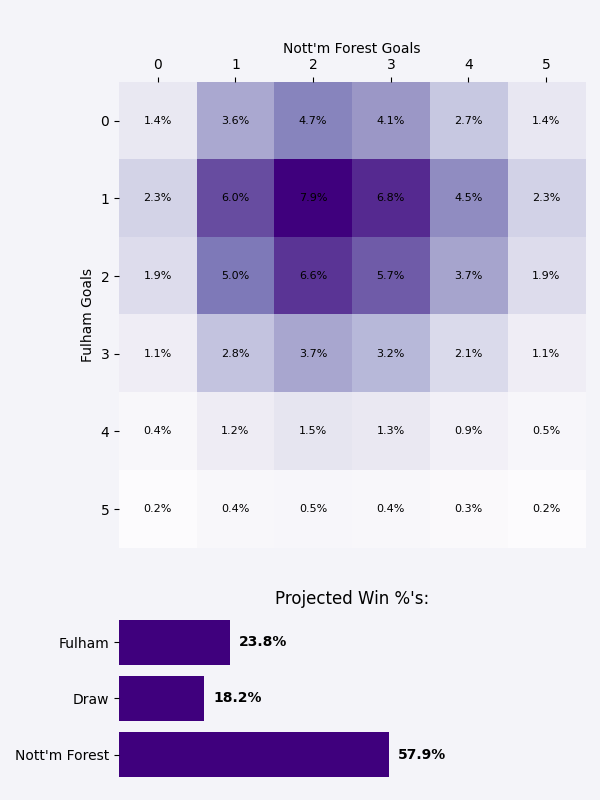
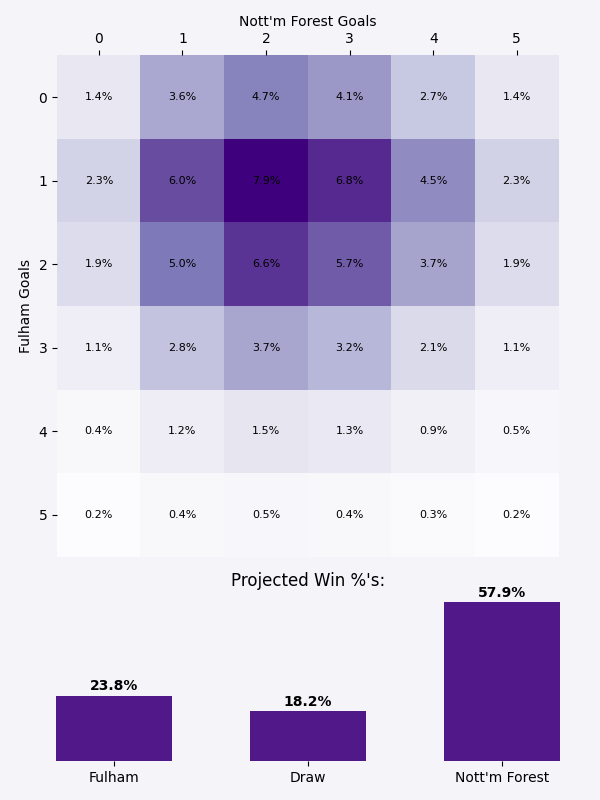
Updated files

diff --git a/templates/index.html b/templates/index.html
@@ -7,10 +7,14 @@
     <style>
         a {
             text-decoration: none;
+            color: #222;
+            padding: 5px;
         }
         a:hover {
             text-decoration: none;
-            color: #666;
+            color: #222;
+            padding: 5px;
+            text-decoration: underline;
         }
         body {
             font-family: Arial, sans-serif;
@@ -23,30 +27,65 @@
         body h1 {
             margin: 50px 0;
         }
-        .info-box {
-            background-color: #f8f9fa; /* Light gray background */
-            border-left: 5px solid #3f007d; /* purple highlight */
-            border-right: 5px solid #3f007d; /* purple highlight */
-            padding: 15px;
-            margin-bottom: 50px;
-            border-radius: 5px;
-            box-shadow: 2px 2px 10px rgba(0, 0, 0, 0.2);
-            width: 700px;
-            max-width: 100%; /* Ensures it doesn't exceed the screen width */
-            margin-left: auto;
-            margin-right: auto; /* Centers the box */
-        }
-
-        .info-box h2 {
+                /* Style for info button */
+                .info-button {
+            background-color: transparent;
+            border: none;
             font-size: 18px;
-            margin-bottom: 5px;
-            color: #333;
+            cursor: pointer;
+        }
+        /* Flex container for heading and info button */
+        .header-container {
+            display: flex;
+            align-items: center;
+            justify-content: center; /* Centers content horizontally */
+            gap: 8px; /* Space between text and button */
+            text-align: center;
+            width: 100%; /* Ensures it takes full width */
         }
 
-        .info-box p {
-            font-size: 14px;
-            color: #555;
-            line-height: 1.5;
+        /* Style for info button */
+        .info-button {
+            background-color: transparent;
+            border: none;
+            font-size: 18px;
+            cursor: pointer;
+        }
+
+        /* The Modal (hidden by default) */
+        .modal {
+            display: none; /* Hidden by default */
+            position: fixed;
+            z-index: 1000;
+            left: 50%;
+            top: 50%;
+            transform: translate(-50%, -50%);
+            width: 60%;
+            background-color: white;
+            box-shadow: 0px 4px 10px rgba(0, 0, 0, 0.2);
+            padding: 20px;
+            border-radius: 10px;
+        }
+
+        /* Dark overlay */
+        .modal-overlay {
+            display: none;
+            position: fixed;
+            top: 0;
+            left: 0;
+            width: 100%;
+            height: 100%;
+            background: rgba(0, 0, 0, 0.5);
+            z-index: 999;
+        }
+
+        /* Close button */
+        .close-button {
+            float: right;
+            font-size: 20px;
+            cursor: pointer;
+            border: none;
+            background: none;
         }
         .fixture {
             text-align: center;
@@ -58,7 +97,7 @@
             color: #333;
         }
         .heatmap {
-            max-width: 400px;
+            max-width: 300px;
             height: auto;
             margin-top: 10px;
         }
@@ -178,20 +217,45 @@
         <div class="menu-icon" onclick="toggleMenu()">☰</div>
         <div class="menu">
             <!---<a href="#">Home</a>--->
-            <a href="#">Premier League</a>
+            <a href="#">EPL Fixtures</a>
+            <!--<a href="/table">EPL Table</a>-->
             <a href="/about">About</a>
         </div>
     </div>
 
-    <h1>Correct Score Heatmaps</h1>
-
-    <div class="info-box">
-        <p>Correct score heatmaps visualize the probability of different scorelines in a football match. 
-           They are generated using historical data and statistical models
-           to predict the likelihood of each possible outcome.</p>
-        <p>These heatmaps can be useful for sports analysts, bettors, and football fans who want 
-            potential match results derived from a data-driven approach.</p>
+    <!-- Header with Info Button -->
+    <div class="header-container">
+        <h1>Correct Score Heatmaps</h1>
+        <button class="info-button" onclick="openModal()">ℹ</button>
     </div>
+
+    <!-- Dark Overlay -->
+    <div class="modal-overlay" id="modalOverlay" onclick="closeModal()"></div>
+
+    <!-- Info Box (Modal) -->
+    <div class="modal" id="infoModal">
+        <button class="close-button" onclick="closeModal()">✖</button>
+        <h3>What are Correct Score Heatmaps?</h3>
+        <p>Correct score heatmaps visualize the probability of different scorelines in a football match. 
+            They are generated using historical data and statistical models
+            to predict the likelihood of each possible outcome.</p>
+         <p>These heatmaps can be useful for sports analysts, sports bettors and football fans who are after 
+             projected scorelines derived from a data-driven approach.</p>
+    </div>
+
+    <script>
+        // Open modal
+        function openModal() {
+            document.getElementById("infoModal").style.display = "block";
+            document.getElementById("modalOverlay").style.display = "block";
+        }
+
+        // Close modal
+        function closeModal() {
+            document.getElementById("infoModal").style.display = "none";
+            document.getElementById("modalOverlay").style.display = "none";
+        }
+    </script>
 
     <h3>Premier League - GW25</h3>
     {% for fixture in fixtures %}
@@ -201,7 +265,7 @@
         <div class="fixture">
             
             <!-- Fixture name A vs B -->
-            <a href="#"><h3>{{ fixture['home_team'] }} vs {{ fixture['away_team'] }}</h3></a>
+            <h3><a href="#">{{ fixture['home_team'] }}</a> vs <a href="">{{ fixture['away_team'] }}</a></h3>
 
             <!-- Fixture Date under fixture name -->
             <h5 class="fixture-info">{{ fixture['date'] }}</h5>

diff --git a/templates/table.html b/templates/table.html
@@ -1,0 +1,43 @@
+<!DOCTYPE html>
+<html lang="en">
+<head>
+    <meta charset="UTF-8">
+    <meta name="viewport" content="width=device-width, initial-scale=1.0">
+    <title>Premier League Table</title>
+    <link rel="stylesheet" href="{{ url_for('static', filename='style.css') }}">
+</head>
+<body>
+    <h1>Premier League Table</h1>
+    <table>
+        <thead>
+            <tr>
+                <th>Pos</th>
+                <th>Team</th>
+                <th>MP</th>
+                <th>W</th>
+                <th>D</th>
+                <th>L</th>
+                <th>G</th>
+                <th>GA</th>
+                <th>PTS</th>
+            </tr>
+        </thead>
+        <tbody>
+            {% for team in table %}
+            <tr>
+                <td>{{ team.Pos }}</td>
+                <td>{{ team.Team }}</td>
+                <td>{{ team.MP }}</td>
+                <td>{{ team.W }}</td>
+                <td>{{ team.D }}</td>
+                <td>{{ team.L }}</td>
+                <td>{{ team.G }}</td>
+                <td>{{ team.GA }}</td>
+                <td>{{ team.PTS }}</td>
+            </tr>
+            {% endfor %}
+        </tbody>
+    </table>
+    <a href="/">Back to Home</a>
+</body>
+</html>

diff --git a/data_loader.py b/data_loader.py
@@ -102,6 +102,48 @@ def calculate_recent_form(df, team_data, recent_matches=15, alpha=0.65):
 
     return recent_form_att, recent_form_def
 
+# create league table
+def calculate_league_table(df):
+    teams = df['Home Team'].unique()
+    table = {team: {'MP': 0, 'W': 0, 'D': 0, 'L': 0, 'G': 0, 'GA': 0, 'PTS': 0} for team in teams}
+
+    for _, row in df.iterrows():
+        home_team = row['Home Team']
+        away_team = row['Away Team']
+        home_goals = row['home_goals']
+        away_goals = row['away_goals']
+
+        # Update Matches Played (MP) and Goals
+        table[home_team]['MP'] += 1
+        table[away_team]['MP'] += 1
+        table[home_team]['G'] += home_goals
+        table[away_team]['G'] += away_goals
+        table[home_team]['GA'] += away_goals
+        table[away_team]['GA'] += home_goals
+
+        # Update Wins, Draws, Losses, Points
+        if home_goals > away_goals:
+            table[home_team]['W'] += 1
+            table[away_team]['L'] += 1
+            table[home_team]['PTS'] += 3
+        elif home_goals < away_goals:
+            table[away_team]['W'] += 1
+            table[home_team]['L'] += 1
+            table[away_team]['PTS'] += 3
+        else:
+            table[home_team]['D'] += 1
+            table[away_team]['D'] += 1
+            table[home_team]['PTS'] += 1
+            table[away_team]['PTS'] += 1
+
+    # Convert to sorted list
+    table_df = pd.DataFrame.from_dict(table, orient='index').reset_index()
+    table_df.rename(columns={'index': 'Team'}, inplace=True)
+    table_df.sort_values(by=['PTS', 'G'], ascending=[False, False], inplace=True)
+    table_df.insert(0, 'Pos', range(1, len(table_df) + 1))  # Add Position column
+
+    return table_df
+
 # Function to simulate a match using Poisson distribution
 def simulate_poisson_distribution(home_xg, away_xg, max_goals=12):
     result_matrix = np.zeros((max_goals, max_goals))
@@ -123,7 +165,6 @@ def simulate_poisson_distribution(home_xg, away_xg, max_goals=12):
 # Function to generate a heatmap
 def display_heatmap(result_matrix, home_team, away_team, home_prob, draw_prob, away_prob, save_path):
     fig, axes = plt.subplots(2, 1, figsize=(6, 8), gridspec_kw={'height_ratios': [3, 1]}, facecolor="#f4f4f9")
-
     # --- Heatmap (Top) ---
     heatmap_ax = axes[0]
     display_matrix = result_matrix[:6, :6]  # Limit to 6x6 grid
@@ -149,36 +190,32 @@ def display_heatmap(result_matrix, home_team, away_team, home_prob, draw_prob, a
 
     # --- Bar Chart (Bottom) ---
     bar_ax = axes[1]
+    bar_ax.set_facecolor('#f4f4f9')  # Background color
 
-    # Set background color for the bar chart
-    bar_ax.set_facecolor('#f4f4f9')
-    
-    categories = [f"{away_team}", "Draw", f"{home_team}"]
-    values = [away_prob * 100, draw_prob * 100, home_prob * 100]
+    categories = [f"{home_team}", "Draw", f"{away_team}"]
+    values = [home_prob * 100, draw_prob * 100, away_prob * 100]
 
+    # **Change from horizontal to vertical bars**
+    bars = bar_ax.bar(categories, values, color='#3f007d', alpha=0.9, width=0.6)
 
-    # Horizontal bar chart
-    bars = bar_ax.barh(categories, values, color='#3f007d', alpha=1)
+    # Set y-axis range from 0 to 100
+    # bar_ax.set_ylim(0, 100)
 
-    # Set x-axis range from 0 to 100
-    bar_ax.set_xlim(0, 100)
-
-    # Hide x-axis values and ticks
+    # Title for the bar chart
     bar_ax.set_title("Projected Win %'s:")
-    bar_ax.set_xticks([])
-    bar_ax.set_xticklabels([])
 
-    # Add text labels on bars
+    # Add text labels on bars (above each bar)
     for bar in bars:
-        width = bar.get_width()
-        bar_ax.text(width + 2, bar.get_y() + bar.get_height()/2, f"{width:.1f}%", 
-                    va='center', fontsize=10, fontweight='bold')
+        height = bar.get_height()
+        bar_ax.text(bar.get_x() + bar.get_width()/2, height + 2, f"{height:.1f}%", 
+                    ha='center', fontsize=10, fontweight='bold')
 
-    # Remove spines
+    # Remove unnecessary spines
     bar_ax.spines['top'].set_visible(False)
     bar_ax.spines['right'].set_visible(False)
     bar_ax.spines['left'].set_visible(False)
     bar_ax.spines['bottom'].set_visible(False)
+    bar_ax.set_yticks([])
 
     # Adjust layout
     plt.tight_layout()
@@ -186,6 +223,7 @@ def display_heatmap(result_matrix, home_team, away_team, home_prob, draw_prob, a
     # Save the combined figure
     plt.savefig(os.path.join(save_path, f"{home_team}_vs_{away_team}_heatmap.png"))
     plt.close()
+
 
 
 

diff --git a/app.py b/app.py
@@ -3,7 +3,7 @@ import numpy as np
 from scipy.stats import poisson
 import os
 import matplotlib.pyplot as plt
-from data_loader import load_fixtures, load_match_data, calculate_team_statistics, calculate_recent_form
+from data_loader import load_fixtures, load_match_data, calculate_team_statistics, calculate_recent_form, calculate_league_table
 
 # Flask app initialization
 app = Flask(__name__)
@@ -11,16 +11,23 @@ app = Flask(__name__)
 # Load data
 match_data = load_match_data()
 team_stats, home_field_advantage = calculate_team_statistics(match_data)
-
+fixtures = load_fixtures().to_dict(orient="records")  # Convert DataFrame to a list of dictionaries
 @app.route("/")
 def home():
-    fixtures = load_fixtures().to_dict(orient="records")  # Convert DataFrame to a list of dictionaries
     return render_template("index.html", fixtures=fixtures)  # Just render, no heatmap generation
 
 
 @app.route("/about")
 def about():
     return render_template("about.html")
+
+
+# Generate league table data at startup
+league_table = calculate_league_table(match_data)
+
+@app.route('/table')
+def table():
+    return render_template('table.html')  # Ensure table.html exists in templates folder
 
 if __name__ == "__main__":
     app.run(debug=True)
